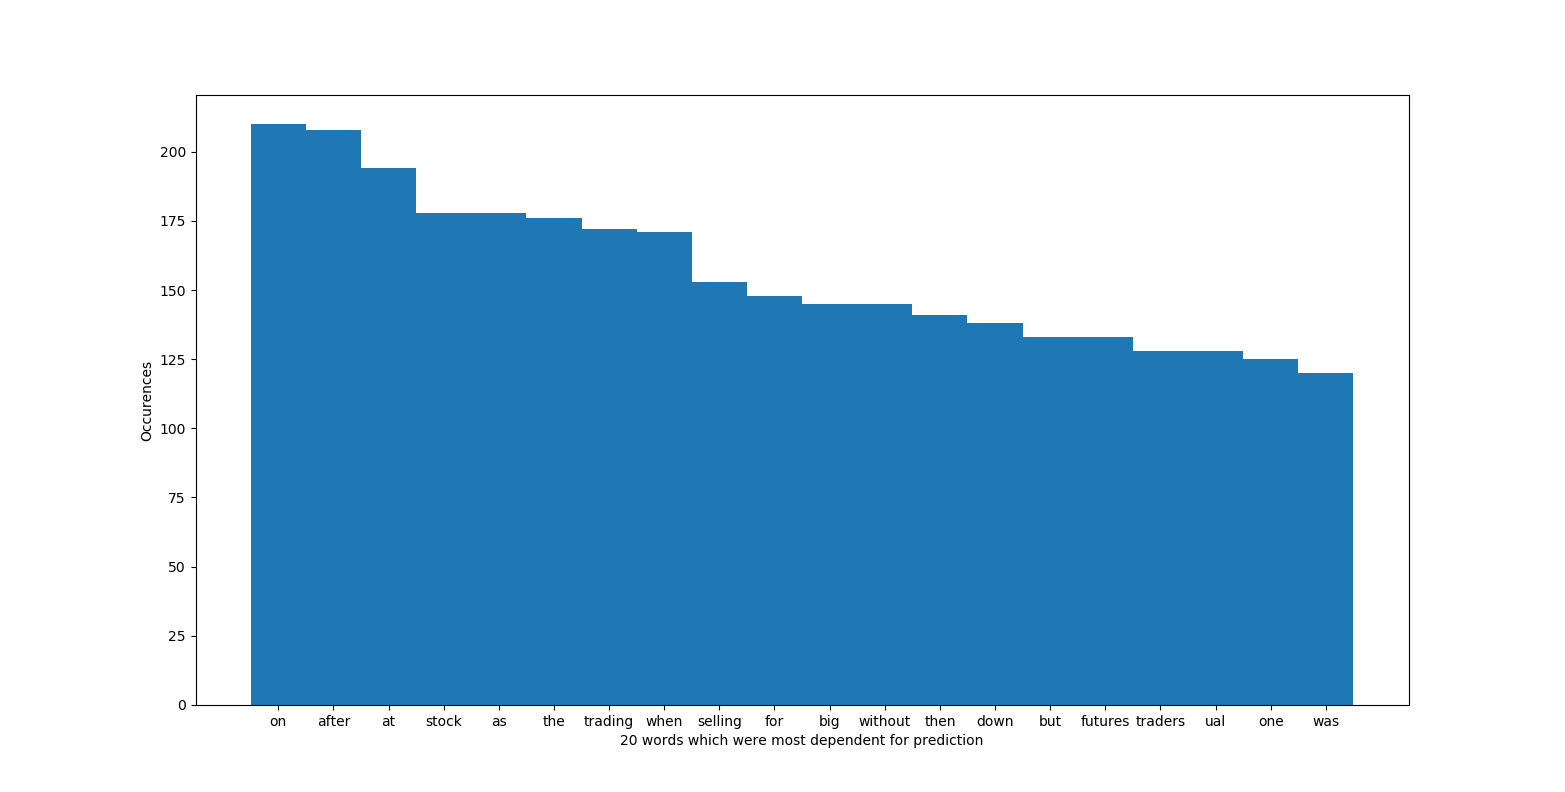
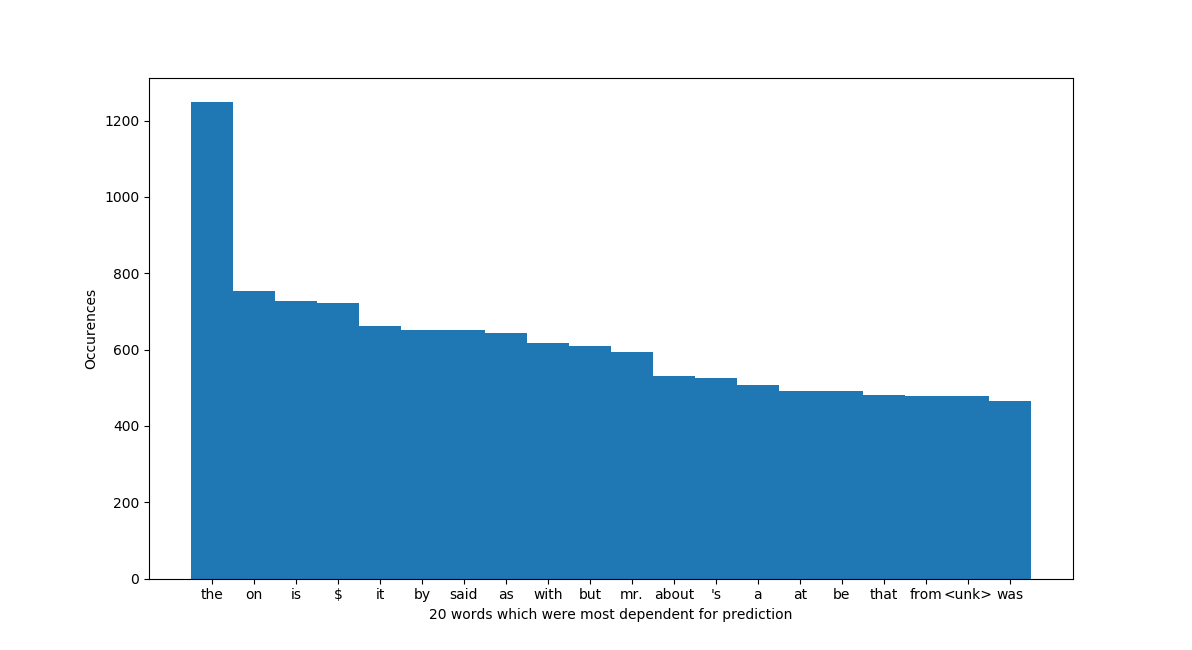
more genration

diff --git a/RAN/supervised_generate.py b/RAN/supervised_generate.py
@@ -72,8 +72,13 @@ results = {}
 results_second = {}
 word_dependency = []
 second_word_dependency = []
+distances = []
+all_words = []
+print('There are ',len(sentences),' sentences...')
+counter = 0
 for sentence in sentences:
     sentence_list = sentence.split(' ')
+    all_words += sentence_list
     #print(sentence_list)
     idx_list = [corpus.dictionary.word2idx[s] for s in sentence_list]
 
@@ -116,11 +121,15 @@ for sentence in sentences:
         word_list_second[max_dependency[i],i] = 0
     second_dependency = np.argmax(word_list_second, axis=0)
     distance =  np.arange(0,num_words) - max_dependency
+    distances += distance.tolist()
     second_distance = np.arange(0,num_words) - second_dependency
     word_dependency += [sentence_list[i] for i in max_dependency]
     second_word_dependency += [sentence_list[i] for i in second_dependency]
     results[sentence] = distance
     results_second[sentence] = second_distance
+    counter += 1
+    if counter % 100 == 0:
+        print('We are at sentence ',counter)
     """
     if num_words == 10:
         plt.imshow(word_list, cmap=CM.Blues, interpolation='nearest')
@@ -134,6 +143,30 @@ for sentence in sentences:
         plt.tight_layout()
         plt.show()
     """
+
+common_relative_dependency = Counter(word_dependency)
+for key in common_relative_dependency:
+    if all_words.count(key) > 10:
+        common_relative_dependency[key] /= all_words.count(key)
+    else:
+        common_relative_dependency[key] = 0
+most_common_relative = common_relative_dependency.most_common(10)
+items = []
+values = []
+for i in most_common_relative:
+    items.append(i[0])
+    values.append(i[1])
+
+indexes = np.arange(len(items))
+width = 1
+plt.bar(indexes, values, width)
+plt.xticks(indexes, items)
+plt.xlabel('10 words which are relatively most often max dependent')
+plt.ylabel('Relative occurences')
+plt.xticks(rotation=30)
+plt.ylim([2,3])
+plt.show()
+
 averages = {}
 for key in results:
     avg_dependency = sum(results[key])/len(results[key])
@@ -143,20 +176,22 @@ for key in results:
     max_dependency = max(results[key])
     maximums[key]=max_dependency
 
-max_distance = 1
-max_sentence = ""
-for key in maximums:
-    if maximums[key] > max_distance:
-        max_distance = maximums[key]
-        max_sentence = key
-print(max_distance,results[max_sentence],max_sentence)
-
-top_5 = sorted(averages, key=averages.get, reverse=True)[:5]
+#top_5 = sorted(maximums, key=maximums.get, reverse=True)[:5]
+#results_top_5 = [results[i] for i in top_5]
+#second_top_5 = [results_second[i] for i in top_5]
+#print(top_5)
+#print(results_top_5)
+#print(second_top_5)
+print('Here are the 100 sentences with max average dependency')
+top_5 = sorted(averages, key=averages.get, reverse=True)[:300]
 results_top_5 = [results[i] for i in top_5]
 second_top_5 = [results_second[i] for i in top_5]
-print(top_5, results_top_5)
+for i in range(len(top_5)):
+    word_list = top_5[i].split(' ')
+    if word_list.count('<unk>')==0 and word_list.count('N')==0:
+        print(top_5[i], results_top_5[i], second_top_5[i])
 
-most_common_dependencies = Counter(word_dependency).most_common(20)
+most_common_dependencies = Counter(word_dependency).most_common(10)
 items = []
 values = []
 for i in most_common_dependencies:
@@ -168,6 +203,26 @@ width = 1
 
 plt.bar(indexes, values, width)
 plt.xticks(indexes, items)
-plt.xlabel('20 words which were most dependent for prediction')
+plt.xlabel('10 words which were most dependent for prediction')
+plt.ylabel('Occurences')
+plt.xticks(rotation=30)
+plt.ylim([400,1300])
+plt.show()
+
+x_axis = np.arange(max(distances)+1)
+y_axis = np.zeros(len(x_axis))
+for x in x_axis:
+    y_axis[x] = distances.count(x)
+plt.bar(x_axis, y_axis)
+plt.xlabel('Distance of maximum dependent word')
+plt.ylabel('Occurences')
+plt.show()
+
+x_axis = np.arange(5)
+y_axis = np.zeros(len(x_axis))
+for x in x_axis:
+    y_axis[x] = distances.count(x)
+plt.bar(x_axis, y_axis)
+plt.xlabel('Distance of maximum dependent word (<5)')
 plt.ylabel('Occurences')
 plt.show()
